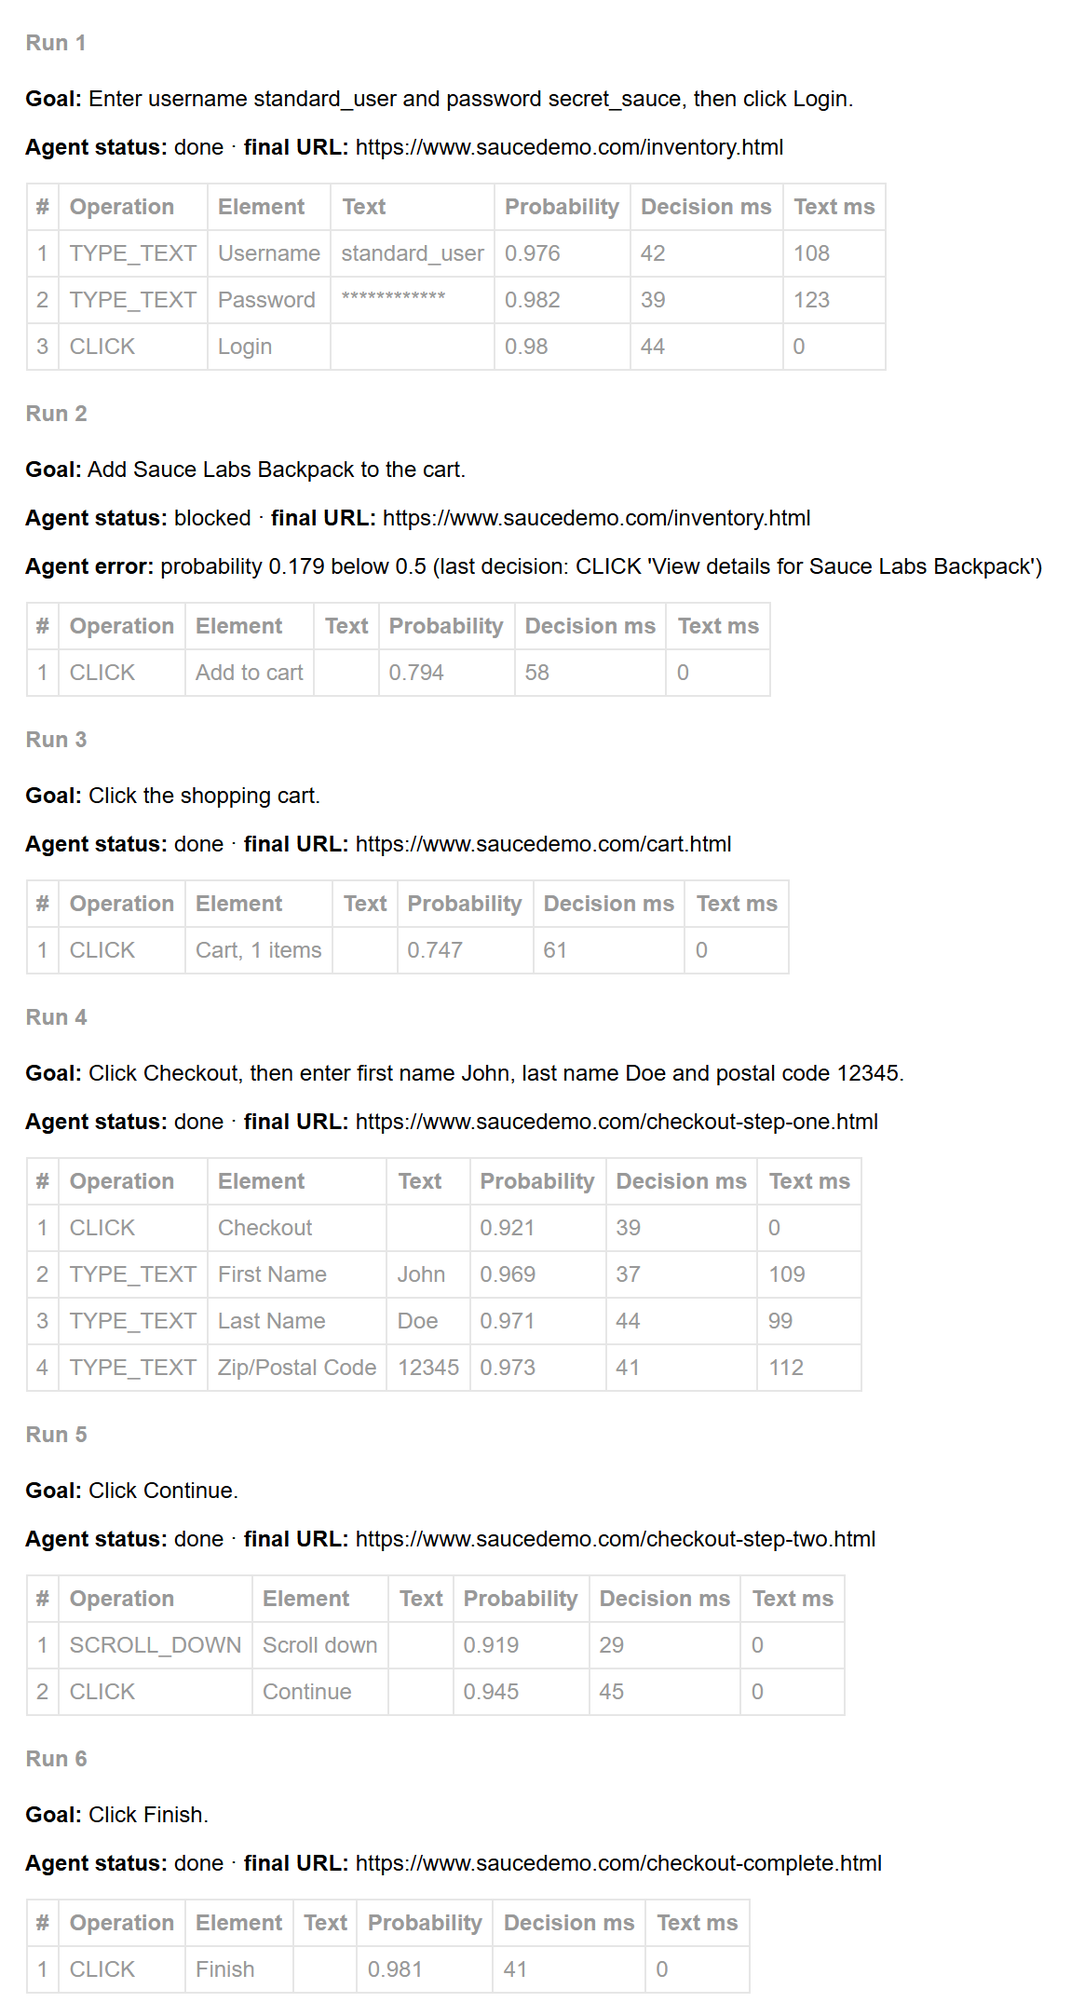
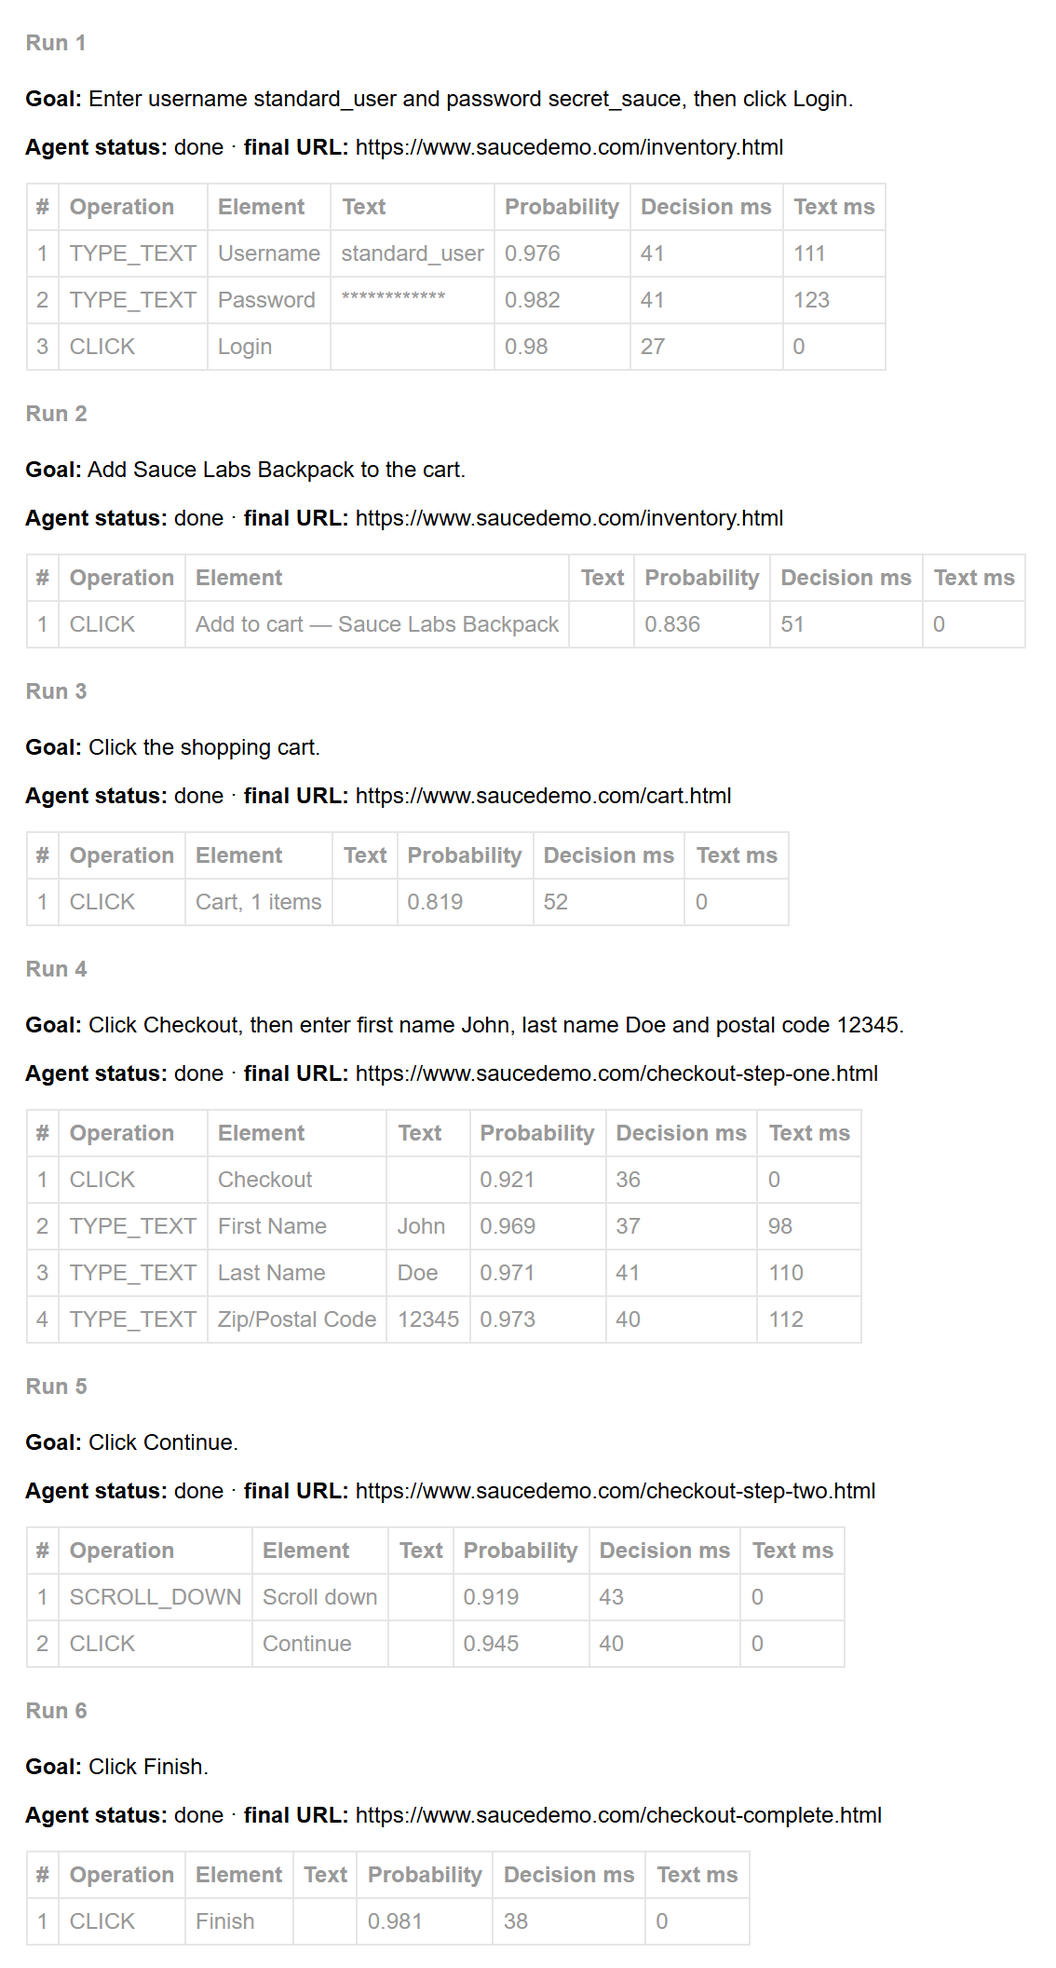
add item context labels, pass^k, Faker form data and a busy CDP port check
- jev_local: identical labels get the name of their own item (twins searched in the whole document;
  links to the same target are not twins); offline tests for each rule
- conftest: pass^k summary for pytest-repeat --count; random faker_seed (the plugin seeds 0)
- test_full_checkout: form data from Faker, checked in the fields
- test_low_confidence_step_is_not_executed: ambiguous goal ("Add a T-shirt") stopped by the threshold
- chrome: fail before launch if the CDP port is taken (a leftover Chrome silently took the tests); CDP_HOST constant
- README and report screenshots updated

Changed region(s): [[0.0, 0.0, 0.9877, 1.0]]

diff --git a/framework/jev_local.py b/framework/jev_local.py
@@ -2,9 +2,10 @@
 
 - decisions go to the local laya-browser server instead of api.typesafe.ai (upstream PR #175);
 - password fields become visible to the agent (upstream PR #123);
-- TEXT_MODEL_REASONING=none is also sent in the form Ollama honours (upstream PR #39).
+- TEXT_MODEL_REASONING=none is also sent in the form Ollama honours (upstream PR #39);
+- identical labels (six "Add to cart" buttons) get the name of their own item (no upstream PR).
 
-All three patch upstream internals. Each checks that the code it patches still looks as expected,
+All four patch upstream internals. Each checks that the code it patches still looks as expected,
 so a changed pin fails loudly instead of silently testing something else.
 """
 
@@ -18,6 +19,29 @@ PASSWORD_PATCHES = {
     "['password','file','hidden']": "['file','hidden']",
     "['text','email','url','tel']": "['text','email','url','tel','password']",
 }
+# Duplicate labels get the visible text of the first link or heading in the largest container that holds only their
+# own element. saucedemo's "Add to cart" and "Remove" buttons do not name the item, so the model picked by position;
+# visible text, because its accessible link names ("View details for ...") made the model pick those links instead.
+# Twins are searched in the whole document: the agent only sees the window, and a lone visible "Remove" was taken
+# for the button of an item below it. Links to the same target are not twins: either click does the same.
+CONTEXT_PATCH = {
+    "  const words=[], walker=": """  const twins=new Map();
+  for (const t of document.querySelectorAll(selector)) {
+    if (!safe(t) || !visible(t) || t.matches(':disabled')) continue;
+    const label=name(t)||role(t);
+    if (label) twins.set(label,[...(twins.get(label)||[]),t]);
+  }
+  for (const a of actions) {
+    const e=cache.nodes.get(a.node), others=(twins.get(a.label)||[]).filter(t=>t!==e && !(t.href && t.href===e.href));
+    if (a.kind==='select' || !others.length) continue;
+    let scope=e;
+    while (scope.parentElement && !others.some(t=>scope.parentElement.contains(t))) scope=scope.parentElement;
+    const title=[...scope.querySelectorAll('a,h1,h2,h3,h4,h5,h6,[role="heading"]')].map(n=>n.innerText.trim())
+      .find(t=>t && !a.label.includes(t));
+    if (title) a.label+=' — '+title;
+  }
+  const words=[], walker=""",
+}
 # Upstream disables reasoning in OpenRouter's form; Ollama ignores it and needs the OpenAI-style effort.
 REASONING_OFF = {"enabled": False}
 
@@ -25,18 +49,18 @@ REASONING_OFF = {"enabled": False}
 def install():
     if getattr(model.post_json, "local", False):
         return
-    _show_password_fields()
+    _patch_snapshot()
     _patch_model_requests()
 
 
-def _show_password_fields():
+def _patch_snapshot():
     def marker(read_state):
         return f"(() => {{ const state={read_state}; return state?.marker ?? null; }})()"
 
-    read_state = browser.READ_STATE
-    if browser.MARKER != marker(read_state) or any(read_state.count(old) != 1 for old in PASSWORD_PATCHES):
-        raise RuntimeError("jev_ultrafast/snapshot.js changed; review the password-field patch before re-pinning")
-    for old, new in PASSWORD_PATCHES.items():
+    read_state, patches = browser.READ_STATE, {**PASSWORD_PATCHES, **CONTEXT_PATCH}
+    if browser.MARKER != marker(read_state) or any(read_state.count(old) != 1 for old in patches):
+        raise RuntimeError("jev_ultrafast/snapshot.js changed; review the snapshot patches before re-pinning")
+    for old, new in patches.items():
         read_state = read_state.replace(old, new)
     browser.READ_STATE = read_state
     browser.MARKER = marker(read_state)

diff --git a/framework/chrome.py b/framework/chrome.py
@@ -4,6 +4,7 @@ import json
 import os
 import shlex
 import shutil
+import socket
 import subprocess
 import tempfile
 import time
@@ -13,7 +14,7 @@ from pathlib import Path
 from browser_harness.admin import ensure_daemon, restart_daemon
 from browser_harness.helpers import cdp
 
-from framework import CDP_PORT, HARNESS_NAME
+from framework import CDP_HOST, CDP_PORT, HARNESS_NAME
 
 KNOWN_PATHS = (
     r"C:\Program Files\Google\Chrome\Application\chrome.exe",
@@ -40,6 +41,14 @@ def chrome_path():
 
 class Chrome:
     def __init__(self, headless=False):
+        # A Chrome left from an earlier run keeps the port: this one cannot bind it, and every CDP call would
+        # silently drive the old (perhaps headless) browser instead.
+        with socket.socket() as probe:
+            if probe.connect_ex((CDP_HOST, CDP_PORT)) == 0:
+                raise RuntimeError(
+                    f"Port {CDP_PORT} is already in use, probably by a Chrome left from an earlier run. "
+                    "Close it or set CHROME_CDP_PORT."
+                )
         self.profile = tempfile.mkdtemp(prefix="jev-chrome-")
         (Path(self.profile) / "Default").mkdir()
         (Path(self.profile) / "Default" / "Preferences").write_text(json.dumps(PROFILE_PREFS), encoding="utf-8")
@@ -66,7 +75,7 @@ class Chrome:
             if self.process.poll() is not None:
                 raise RuntimeError(f"Chrome exited with code {self.process.returncode} before CDP was ready")
             try:
-                with urllib.request.urlopen(f"http://127.0.0.1:{CDP_PORT}/json/version", timeout=1) as response:
+                with urllib.request.urlopen(f"http://{CDP_HOST}:{CDP_PORT}/json/version", timeout=1) as response:
                     return json.load(response)["Browser"]
             except OSError:
                 time.sleep(0.2)
@@ -74,7 +83,7 @@ class Chrome:
         raise RuntimeError(f"Chrome CDP did not open on port {CDP_PORT} within {timeout}s")
 
     def _page_ids(self):
-        with urllib.request.urlopen(f"http://127.0.0.1:{CDP_PORT}/json/list", timeout=5) as response:
+        with urllib.request.urlopen(f"http://{CDP_HOST}:{CDP_PORT}/json/list", timeout=5) as response:
             return [target["id"] for target in json.load(response) if target["type"] == "page"]
 
     def clear_origin(self, origin):

diff --git a/tests/test_saucedemo.py b/tests/test_saucedemo.py
@@ -27,17 +27,16 @@ def test_add_backpack_to_cart(jev, logged_in):
 
 
 def test_low_confidence_step_is_not_executed(jev, logged_in):
-    # After "Add to cart" the model's next choice is "View details" at ~0.18, below MIN_PROBABILITY.
-    # Here the agent's own stop is what is checked, so its status is part of the verdict.
-    result, page = jev.start("/inventory.html", "Add Sauce Labs Backpack to the cart.", max_actions=4)
+    # Two T-shirts are for sale, so the goal is ambiguous: the model spreads its choice (~0.12 at best) below
+    # MIN_PROBABILITY. Here the agent's own stop is what is checked, so its status is part of the verdict.
+    result, page = jev.start("/inventory.html", "Add a T-shirt to the cart.", max_actions=4)
 
     assert result.status == "blocked", result.outcome
     assert result.error.startswith("probability "), result.outcome
-    assert page.evaluate("location.pathname") == "/inventory.html"  # "View details" was not clicked
-    assert page.evaluate("localStorage.getItem('cart-contents')") == "[4]"
+    assert page.evaluate("localStorage.getItem('cart-contents')") is None  # nothing was added
 
 
-def test_full_checkout(jev):
+def test_full_checkout(jev, faker):
     result, page = jev.start("/", LOGIN, max_actions=6)
     assert page.evaluate("location.pathname") == "/inventory.html", result.outcome
 
@@ -48,9 +47,12 @@ def test_full_checkout(jev):
     result, page = jev.then("Click the shopping cart.", max_actions=3)
     assert page.evaluate("location.pathname") == "/cart.html", result.outcome
 
-    goal = "Click Checkout, then enter first name John, last name Doe and postal code 12345."
+    first, last, postal = faker.first_name(), faker.last_name(), faker.postcode()
+    goal = f"Click Checkout, then enter first name {first}, last name {last} and postal code {postal}."
     result, page = jev.then(goal, max_actions=6)
     assert page.evaluate("location.pathname") == "/checkout-step-one.html", result.outcome
+    typed = page.evaluate("['first-name', 'last-name', 'postal-code'].map(id => document.getElementById(id).value)")
+    assert typed == [first, last, postal], result.outcome
 
     # After the last field the model answers DONE rather than submitting, so submitting is its own goal.
     result, page = jev.then("Click Continue.", max_actions=3)

diff --git a/tests/conftest.py b/tests/conftest.py
@@ -1,6 +1,7 @@
 import base64
 import json
 import os
+import random
 import re
 import urllib.request
 from html import escape
@@ -57,6 +58,13 @@ def site(chrome):
 def logged_in(chrome, site):
     """Precondition without the agent: saucedemo keeps its session in this cookie."""
     chrome.set_cookie(name="session-username", value="standard_user", domain="www.saucedemo.com", path="/")
+
+
+@pytest.fixture(autouse=True)
+def faker_seed():
+    """Faker's pytest plugin seeds every test with 0: the same data in every run, which stops finding bugs.
+    The plugin only reads this fixture when it is autouse. The values go into the goal, so the report shows them."""
+    return random.randrange(2**32)
 
 
 @pytest.fixture(scope="session")
@@ -176,6 +184,8 @@ def pytest_html_results_table_row(report, cells):
 
 
 def pytest_terminal_summary(terminalreporter, config):
+    if (k := config.getoption("count", 1)) > 1:
+        _pass_hat_k(terminalreporter, k)
     runs = config.stash.get(RUNS, [])
     if not runs:
         return
@@ -185,6 +195,23 @@ def pytest_terminal_summary(terminalreporter, config):
         terminalreporter.write_line(
             f"{name:40} {r.status:8} {len(r.steps):>7} {r.elapsed_ms:>9} {r.avg_decision_ms:>16}"
         )
+
+
+def _pass_hat_k(terminalreporter, k):
+    """pass^k (τ-bench): a test counts only if all k trials passed. pytest-repeat names trials test[1-3], test[2-3]"""
+    trials = {}
+    for reports in terminalreporter.stats.values():
+        for report in reports:
+            if isinstance(report, pytest.TestReport):  # setup, call and teardown must all pass
+                trials[report.nodeid] = trials.get(report.nodeid, True) and report.passed
+    tests = {}
+    for nodeid, passed in trials.items():
+        tests.setdefault(re.sub(r"\[\d+-\d+\]$", "", nodeid), []).append(passed)
+    terminalreporter.section(f"pass^{k}")
+    for name, passed in tests.items():
+        terminalreporter.write_line(f"{name:72} {sum(passed)}/{len(passed)}")
+    reliable = sum(all(passed) for passed in tests.values())
+    terminalreporter.write_line(f"pass^{k}: {reliable}/{len(tests)} tests passed all {k} trials")
 
 
 def _steps_html(number, result):

diff --git a/tests/test_adapter.py b/tests/test_adapter.py
@@ -17,6 +17,50 @@ def test_password_field_is_observed(chrome):
     assert any("Password" in label for label in labels), labels
 
 
+PRODUCT_LIST = (
+    "<div><a href='#a'>Backpack</a><button>Add to cart</button></div>"
+    "<div><a href='#b'>Onesie</a><button>Add to cart</button></div>"
+)
+
+
+def test_identical_labels_get_item_context(chrome):
+    page_browser = Browser("data:text/html," + quote(PRODUCT_LIST))
+    try:
+        labels = [action["label"] for action in page_browser.observe(screenshot=False)["actions"]]
+    finally:
+        page_browser.close()
+    assert {"Add to cart — Backpack", "Add to cart — Onesie"} <= set(labels), labels
+
+
+# The agent only sees elements inside the window; the Onesie button is below it.
+OFFSCREEN_TWIN = (
+    "<div><a href='#a'>Backpack</a><button>Remove</button></div><div style='height:3000px'></div>"
+    "<div><a href='#b'>Onesie</a><button>Remove</button></div>"
+)
+
+
+def test_visible_label_gets_item_context_when_its_twin_is_offscreen(chrome):
+    page_browser = Browser("data:text/html," + quote(OFFSCREEN_TWIN))
+    try:
+        labels = [action["label"] for action in page_browser.observe(screenshot=False)["actions"]]
+    finally:
+        page_browser.close()
+    assert "Remove — Backpack" in labels and "Onesie" not in labels, labels
+
+
+# Repeated links to one target (footnotes, a term linked twice) are not ambiguous: either click does the same.
+SAME_TARGET = "<div><h2>Intro</h2><a href='#note-1'>[1]</a></div><div><h2>History</h2><a href='#note-1'>[1]</a></div>"
+
+
+def test_links_to_the_same_target_keep_their_label(chrome):
+    page_browser = Browser("data:text/html," + quote(SAME_TARGET))
+    try:
+        labels = [action["label"] for action in page_browser.observe(screenshot=False)["actions"]]
+    finally:
+        page_browser.close()
+    assert labels.count("[1]") == 2, labels
+
+
 class Response:
     status_code, is_error = 200, False
 

diff --git a/framework/runner.py b/framework/runner.py
@@ -10,8 +10,8 @@ from jev_ultrafast.browser import StalePage
 
 SECRET_FIELD = re.compile("password", re.IGNORECASE)
 INTERACTIVE = {"click", "fill", "select"}
-# The agent stops instead of acting on a less likely choice. On saucedemo every intended step scores 0.74 or higher;
-# the one unintended click ("View details" after "Add to cart") scores 0.18.
+# The agent stops instead of acting on a less likely choice. On saucedemo every intended step scores 0.81 or higher;
+# an ambiguous goal ("Add a T-shirt" with two T-shirts for sale) tops out at 0.12.
 MIN_PROBABILITY = 0.5
 
 

diff --git a/framework/__init__.py b/framework/__init__.py
@@ -2,10 +2,12 @@
 
 import os
 
+# Chrome is our own child process and serves CDP on loopback only: the host is not a setting, the port is.
+CDP_HOST = "127.0.0.1"
 CDP_PORT = int(os.environ.get("CHROME_CDP_PORT", "9333"))
 HARNESS_NAME = os.environ.setdefault("BU_NAME", "jev-tests")
 
 # Tests own their browser: never attach to the user's Chrome or a remote one.
 os.environ.pop("BU_CDP_WS", None)
-os.environ["BU_CDP_URL"] = f"http://127.0.0.1:{CDP_PORT}"
+os.environ["BU_CDP_URL"] = f"http://{CDP_HOST}:{CDP_PORT}"
 os.environ.setdefault("BH_TELEMETRY", "0")

diff --git a/tests/test_chrome.py b/tests/test_chrome.py
@@ -1,0 +1,16 @@
+"""Offline checks of framework/chrome.py."""
+
+import socket
+
+import pytest
+
+from framework import chrome
+
+
+def test_busy_cdp_port_fails_before_launch(monkeypatch):
+    with socket.socket() as listener:
+        listener.bind((chrome.CDP_HOST, 0))
+        listener.listen()
+        monkeypatch.setattr(chrome, "CDP_PORT", listener.getsockname()[1])
+        with pytest.raises(RuntimeError, match="already in use"):
+            chrome.Chrome(headless=True)

diff --git a/README.md b/README.md
@@ -75,7 +75,7 @@ frameworks are still more reliable. This project is a working template and a tes
 | [cklxx/laya-browser](https://huggingface.co/cklxx/laya-browser) | a fine-tuned [laya](https://github.com/NandhaKishorM/laya) (mmBERT, 322M) speaking Jev's `/v1/systemone` protocol; pinned to revision `645cf366` in `serve.py` (the server code ships with the weights, so the pin fixes both) | a local replacement for Jev; base laya scores ≈ 0% on browser decisions without fine-tuning |
 | Ollama + `gemma4:e4b` | writes the field value when TYPE_TEXT is chosen | OpenAI-compatible API, so jev connects through env variables, no code; models under ~4B parameters confuse the fields |
 | `framework/chrome.py` | a dedicated Chrome: own CDP port, temporary profile, prefs | the user's browser is never touched; the prefs turn off Chrome's leaked-password dialog, which swallows clicks after login with `secret_sauce` |
-| `framework/jev_local.py` | three targeted patches of the pinned jev-ultrafast commit | see below |
+| `framework/jev_local.py` | four targeted patches of the pinned jev-ultrafast commit | see below |
 
 ### jev-ultrafast patches (`framework/jev_local.py`)
 
@@ -86,6 +86,9 @@ If the code changed after a re-pin, the run fails with a clear error instead of 
 2. `type=password` fields become visible to the agent: upstream hides them twice, which makes login impossible (PR #123).
 3. `TEXT_MODEL_REASONING=none` is also sent as `{"effort": "none"}`. Otherwise Ollama ignores the reasoning switch
    and gemma "thinks" for up to 9 seconds per field (PR #39).
+4. Identical labels get the name of their own item: saucedemo's six "Add to cart" buttons do not say which product
+   they belong to, so the model picked by position ("Add Bolt T-Shirt" added the Backpack). Now the model sees
+   "Add to cart — Sauce Labs Bolt T-Shirt" and picks it at ~0.83. Our own patch, no upstream PR.
 
 ## Running locally
 
@@ -105,6 +108,7 @@ cp .env.example .env
 uv run pytest -m "not live"            # offline adapter checks, no models needed
 uv run --env-file .env pytest          # everything, in a visible Chrome window
 uv run --env-file .env pytest --headless --record-steps
+uv run --env-file .env pytest -m live --headless --count 3   # every test 3 times, the summary reports pass^3
 ```
 
 If the decision server is not running, the live tests stop before opening the browser with
@@ -122,7 +126,11 @@ If the decision server is not running, the live tests stop before opening the br
 | `CHROME_EXTRA_ARGS` | empty (`--no-sandbox` in Docker) | extra Chrome flags |
 | `CHROME_CDP_PORT` | `9333` | CDP port of the isolated Chrome |
 
-pytest flags: `--headless` (no window), `--record-steps` (a frame after every action; included in the report for failed tests).
+pytest flags: `--headless` (no window), `--record-steps` (a frame after every action; included in the report for failed tests),
+`--count N` (pytest-repeat: every test N times; the summary reports pass^N, the share of tests that passed all N trials,
+as in [τ-bench](https://arxiv.org/abs/2406.12045)). The decision model is deterministic, so repeats catch flakiness
+of the environment (timing, network, browser) and of the text model, not of the decisions: robustness to phrasing
+is checked by varying the goal.
 
 ## Running in Docker
 
@@ -185,6 +193,11 @@ Rules for phrasing goals (found experimentally):
 - a step below `MIN_PROBABILITY` (0.5, `framework/runner.py`) is not executed: the run stops with status `blocked`
   and the reason in `result.error`;
 - the agent's status (`done`) is not a verdict. Check the result on the page or in `localStorage`;
+- check *which* item changed, not how many: `cart-contents == "[4]"`, not a cart badge of "1". A wrong but similar
+  action keeps a count right;
+- form data comes from the `faker` fixture and is written into the goal (`f"enter first name {first}"`), then checked
+  in the fields. The text model only puts given values into fields: it never invents personal data and stops
+  with an error instead. Faker's plugin seeds every test with 0, so `conftest.py` sets a random `faker_seed`;
 - prepare preconditions that the test does not verify without the agent (e.g. the `logged_in` fixture sets a cookie).
 
 ## Report
@@ -196,7 +209,7 @@ Passwords are masked. With `--record-steps`, failed tests also get a frame after
 Raw data for every run is in `reports/artifacts/<test>/run-N/run.json`.
 A step stopped by the confidence threshold is shown as the agent error, with its probability.
 
-![HTML report, test_low_confidence_step_is_not_executed: "Add to cart" is executed, the next choice "View details" at probability 0.179 is stopped by the threshold](docs/media/report.png)
+![HTML report, test_low_confidence_step_is_not_executed: the ambiguous goal "Add a T-shirt to the cart." is stopped by the threshold at probability 0.119, nothing is executed](docs/media/report.png)
 
 <details>
 <summary>Full card of <code>test_full_checkout</code>: six goals in one tab</summary>
@@ -221,8 +234,11 @@ In the Linux container torch runs some operations as Triton kernels, which makes
   Chrome paths, the CUDA-only torch index and the GPU reservation in `compose.yaml` are Windows/NVIDIA-specific.
 - No CI: the live tests need an NVIDIA GPU, which standard GitHub-hosted runners do not have
   (GPU runners require a paid Team/Enterprise plan). The suite runs locally or in local Docker.
-- The confidence threshold (0.5) is tuned on saucedemo, where every intended step scores 0.74 or higher;
+- The confidence threshold (0.5) is tuned on saucedemo, where every intended step scores 0.81 or higher;
   another site may need a different value.
+- The agent only sees the browser window and rarely scrolls. For an item below it, the model may confidently open the
+  item's page or answer DONE instead of scrolling to its button. The threshold does not catch a confident choice;
+  the page assertion does.
 - jev-ultrafast is an MVP: shadow DOM, iframes, file uploads and pop-up windows are not supported.
 - Goals are written for the model, not for a human. That is the price of a 322M model deciding in tens of milliseconds.
 
